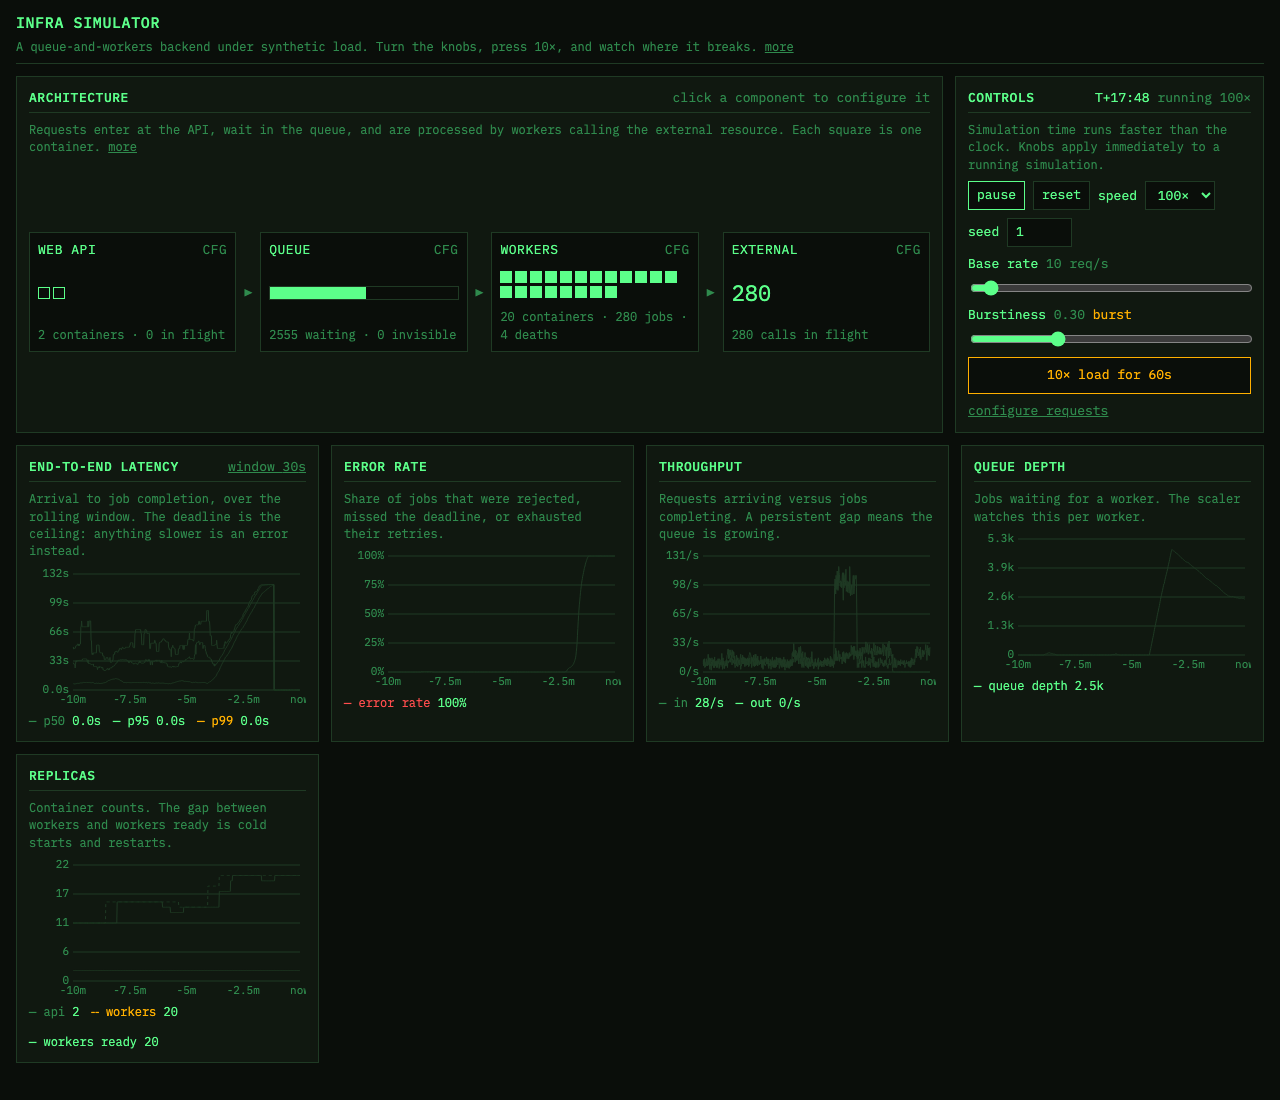
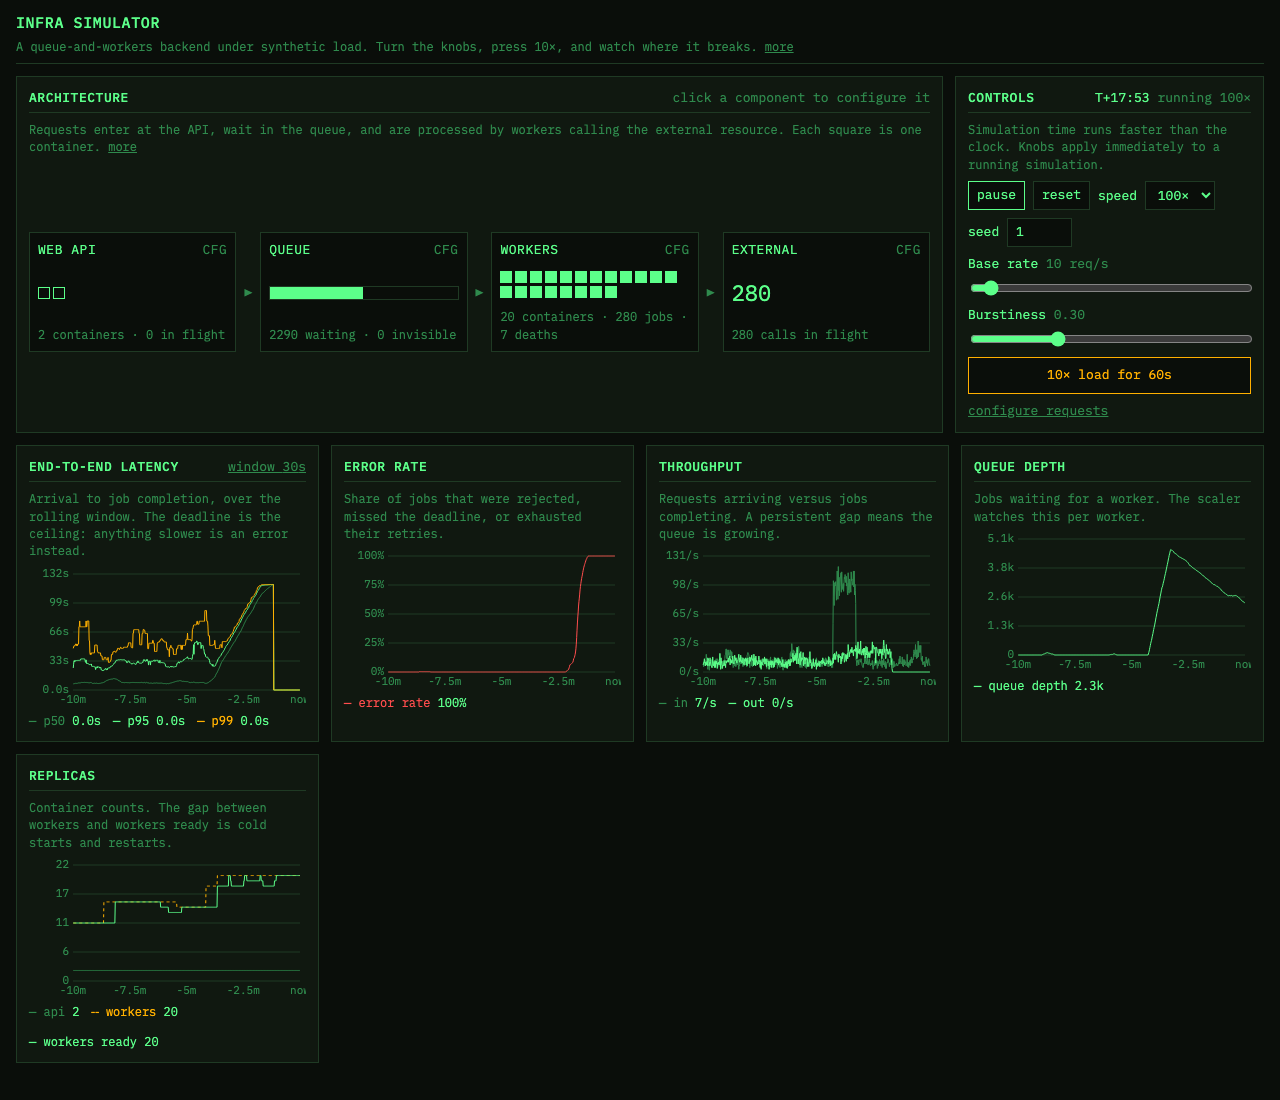
Refresh screenshots and document capped-call backoff semantics
Claude-Session: https://claude.ai/code/session_01Wd617XiEmEJwC1zFLbdaP6

diff --git a/docs/plans/2026-09-13-infra-simulator-poc.md b/docs/plans/2026-09-13-infra-simulator-poc.md
@@ -134,3 +134,5 @@ Divergences from the plan above, recorded after implementation.
 - Tuned defaults differ from the plan's table: worker concurrency 14, min replicas 4, scale-up step 4, cooldown 30 s, evaluation 15 s, target queue depth per worker 5. `docs/concept.md` carries the current values.
 - Configuration for processing time and memory distributions lives in the Incoming requests drawer, per the concept, rather than a separate panel. Percentile window lives in a small Metrics drawer opened from the latency chart title.
 - Step 16, deploy, is left to the user: the repository has no remote yet. The README states the Vercel settings.
+- After the review pass: capped external calls are retried by the worker with exponential backoff while the job keeps its slot, rather than re-enqueued. The engine design note above describing "requeued immediately" applies only to failures the external resource reports after a call.
+- Chart series colors are token names resolved at draw time; canvas cannot read `var()`.

diff --git a/docs/concept.md b/docs/concept.md
@@ -81,7 +81,7 @@ Retries are included from the start because they amplify load during a breakdown
 ### 3.6 External resource
 
 - Latency comes from the processing-time distribution above.
-- Optional capacity cap expressed as a maximum concurrent calls or calls per minute. Calls over the cap fail immediately. Off by default.
+- Optional capacity cap expressed as maximum concurrent calls. A call over the cap fails immediately and counts as an attempt. The worker keeps the job, backs off exponentially from one second, and tries again, so the job holds its slot and memory while it waits. Off by default.
 - Failure rate, a percentage of calls that fail regardless of load.
 
 ### 3.7 Errors
